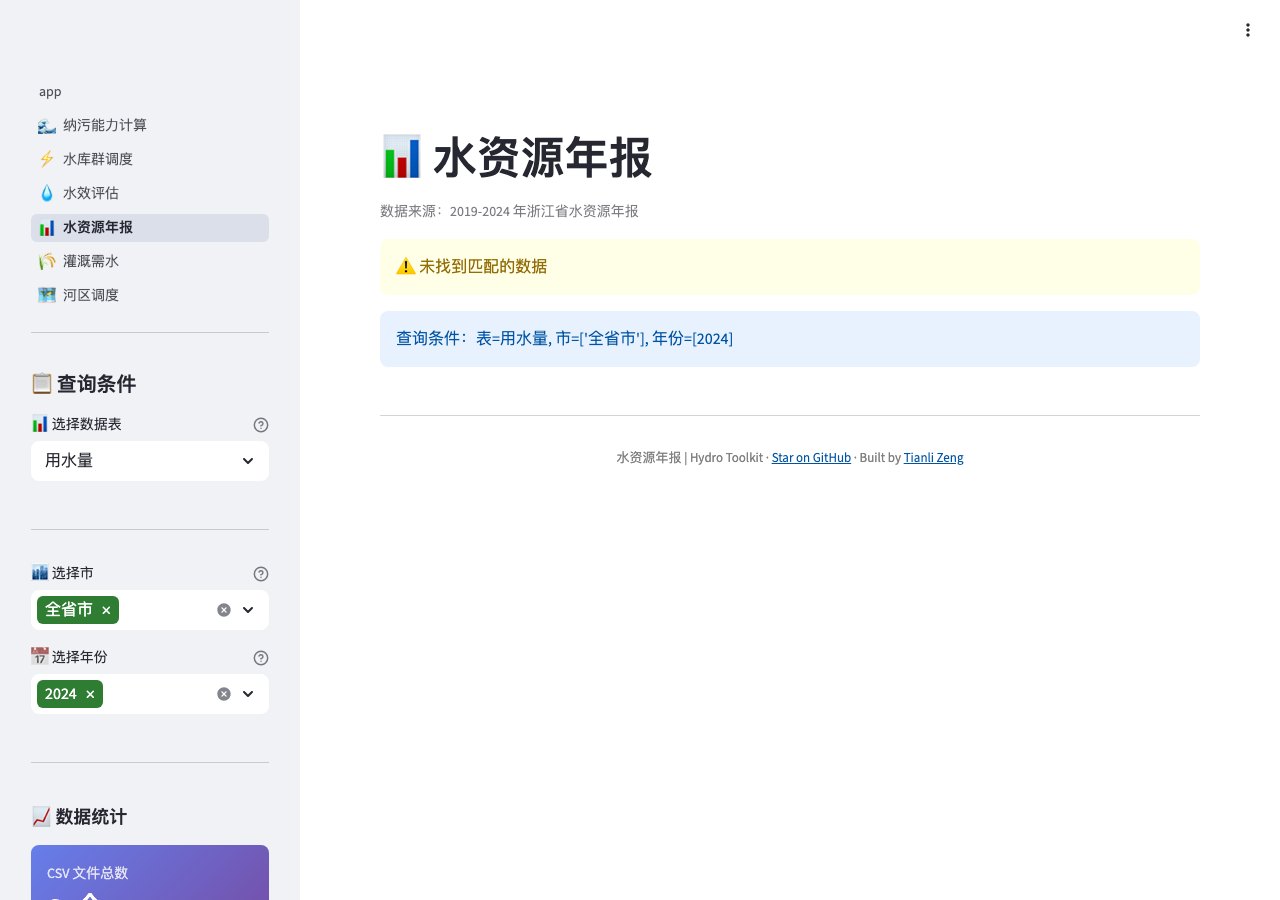
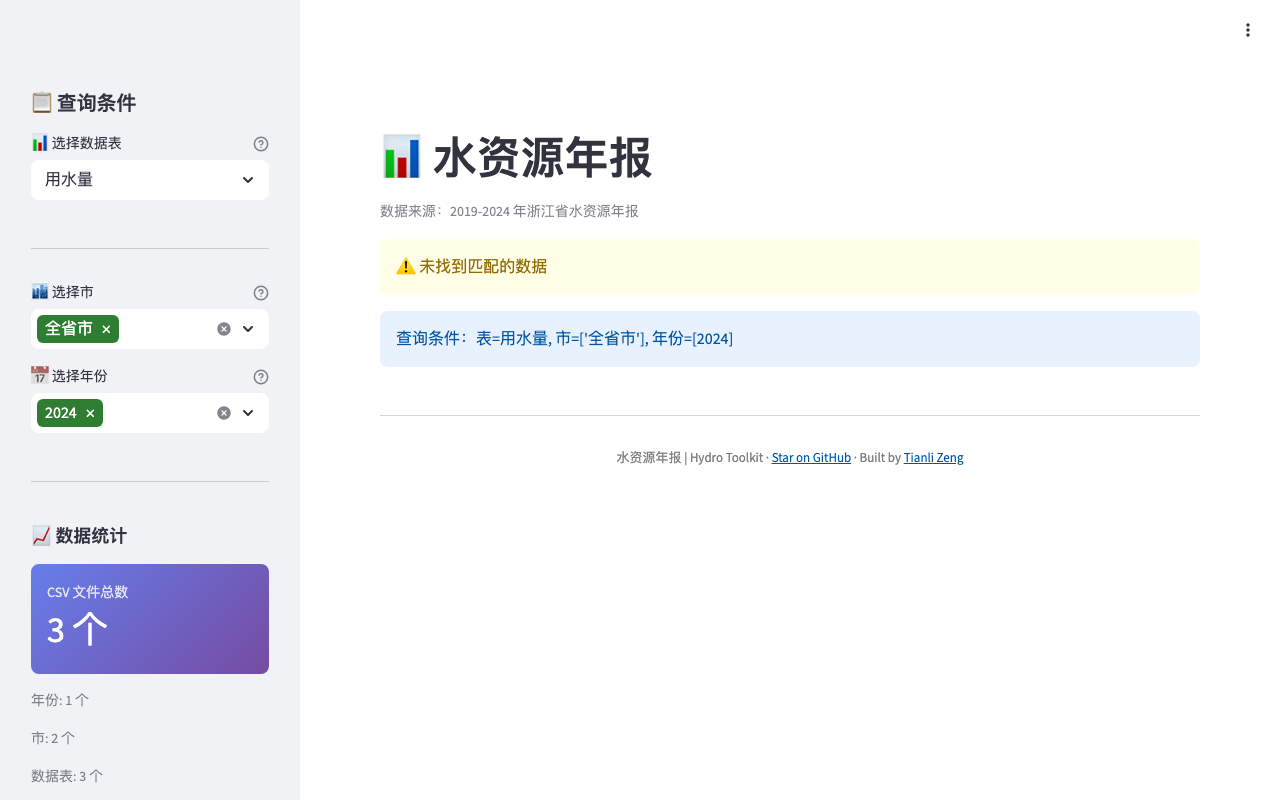
docs: restore demo links, screenshots, feature table + add plugin architecture
- Restore "Try it now" section with hydro.tianlizeng.cloud
- Restore tool feature table with input/output + standalone demo links
- Restore screenshots section (homepage + 2x3 tool grid)
- Restore tech stack and key algorithms sections
- Add plugin architecture section with repo + standalone demo links
- Update screenshots with fresh captures from deployed VPS

diff --git a/README_CN.md b/README_CN.md
@@ -1,20 +1,53 @@
-# 🌊 水利计算工具集 Hydro Toolkit
+# 🌊 Hydro Toolkit
 
 [English](README.md) | **中文**
 
-[![GitHub stars](https://img.shields.io/github/stars/zengtianli/hydro-toolkit)](https://github.com/zengtianli/hydro-toolkit)
-[![License: MIT](https://img.shields.io/badge/License-MIT-yellow.svg)](LICENSE)
-[![Python 3.9+](https://img.shields.io/badge/Python-3.9+-blue.svg)](https://python.org)
+水利计算工具集 — 水库调度、纳污能力、灌溉需水、水效评估等一站式计算平台。
+
+[![在线演示](https://img.shields.io/badge/%E5%9C%A8%E7%BA%BF%E6%BC%94%E7%A4%BA-hydro.tianlizeng.cloud-brightgreen)](https://hydro.tianlizeng.cloud)
+[![License: MIT](https://img.shields.io/badge/License-MIT-blue.svg)](LICENSE)
+[![Python 3.9+](https://img.shields.io/badge/Python-3.9%2B-blue.svg)](https://python.org)
 [![Streamlit](https://img.shields.io/badge/Streamlit-1.36+-FF4B4B.svg)](https://streamlit.io)
 
-插件式水利计算工具集。粘贴 GitHub URL 即可安装工具，无需修改代码。
+---
 
-![screenshot](docs/screenshots/home.png)
+### 立即体验 — 无需安装
 
-## 架构
+| 全部工具 | 或单独使用每个工具 |
+|:---:|:---:|
+| **https://hydro.tianlizeng.cloud** | 见下方表格链接 |
+
+上传数据 → 选择工具 → 下载结果。所有工具内置示例数据，零门槛试用。
+
+---
+
+## 功能一览
+
+| 工具 | 功能 | 输入 | 输出 | 在线体验 |
+|------|------|------|------|----------|
+| **纳污能力计算** | 河道/水库纳污能力计算，支持支流分段和多方案 | Excel (流量 + 功能区参数) | Excel (逐月纳污能力) | [演示](https://hydro-capacity.tianlizeng.cloud) |
+| **水库群调度** | 梯级水库发电调度优化计算 | Excel (来水 + 水库参数) | Excel (逐日调度过程) | [演示](https://hydro-reservoir.tianlizeng.cloud) |
+| **水效评估** | 工业集聚区水效评估 (AHP+CRITIC+TOPSIS) | Excel (三循环指标数据) | Excel (评分 + 企业排名) | [演示](https://hydro-efficiency.tianlizeng.cloud) |
+| **水资源年报** | 浙江省水资源年报数据查询 (2019-2024) | 内置 CSV 数据集 | Excel/CSV 导出 | [演示](https://hydro-annual.tianlizeng.cloud) |
+| **灌溉需水** | 水稻+旱地灌溉需水量水平衡模拟 | TXT (降雨 + 蒸发) | Excel (逐日需水量) | [演示](https://hydro-irrigation.tianlizeng.cloud) |
+| **河区调度** | 19河区逐日水资源供需平衡调度 | TXT (来水 + 需水) | TXT/ZIP (调度结果) | [演示](https://hydro-district.tianlizeng.cloud) |
+
+## 截图
+
+### 首页
+![首页](docs/screenshots/homepage.png)
+
+### 工具界面
+| | |
+|---|---|
+| ![纳污能力计算](docs/screenshots/capacity.png) | ![水库群调度](docs/screenshots/reservoir.png) |
+| ![水效评估](docs/screenshots/efficiency.png) | ![水资源年报](docs/screenshots/annual.png) |
+| ![灌溉需水](docs/screenshots/irrigation.png) | ![河区调度](docs/screenshots/district.png) |
+
+## 插件架构
 
 ```
-hydro-toolkit (Host)          插件 (git clone)
+hydro-toolkit（宿主壳）        插件（git clone 安装）
 ┌─────────────────┐     ┌──────────────────────┐
 │  app.py         │     │  hydro-capacity/     │
 │  core/          │────▶│  hydro-reservoir/    │
@@ -25,18 +58,16 @@ hydro-toolkit (Host)          插件 (git clone)
                         └──────────────────────┘
 ```
 
-Toolkit 是一个**纯 Host 壳**，零业务代码。每个工具是独立插件，通过 `plugin.yaml` 在运行时被发现。
+Toolkit 是**纯宿主壳**，不含任何业务逻辑。每个工具都是独立插件，通过 `plugin.yaml` 在运行时发现。既可以在 Toolkit 中使用，也可以独立运行。
 
-## 已有插件
-
-| # | 插件 | 说明 | 仓库 |
-|---|------|------|------|
-| 🌊 | 纳污能力计算 | 河道/水库纳污能力计算 | [hydro-capacity](https://github.com/zengtianli/hydro-capacity) |
-| ⚡ | 水库群调度 | 梯级水电调度优化 | [hydro-reservoir](https://github.com/zengtianli/hydro-reservoir) |
-| 💧 | 水效评估 | AHP+CRITIC+TOPSIS 综合评价 | [hydro-efficiency](https://github.com/zengtianli/hydro-efficiency) |
-| 📊 | 水资源年报 | 浙江省数据查询（2019–2024） | [hydro-annual](https://github.com/zengtianli/hydro-annual) |
-| 🌾 | 灌溉需水 | 水稻+旱地水量平衡模型 | [hydro-irrigation](https://github.com/zengtianli/hydro-irrigation) |
-| 🗺 | 河区调度 | 19河区逐日供需平衡 | [hydro-district](https://github.com/zengtianli/hydro-district) |
+| 插件 | 功能 | 仓库 | 独立演示 |
+|------|------|------|----------|
+| 🌊 纳污能力计算 | 河道/水库纳污能力计算 | [hydro-capacity](https://github.com/zengtianli/hydro-capacity) | [hydro-capacity.tianlizeng.cloud](https://hydro-capacity.tianlizeng.cloud) |
+| ⚡ 水库群调度 | 梯级水库水电调度优化 | [hydro-reservoir](https://github.com/zengtianli/hydro-reservoir) | [hydro-reservoir.tianlizeng.cloud](https://hydro-reservoir.tianlizeng.cloud) |
+| 💧 水效评估 | AHP+CRITIC+TOPSIS 评价 | [hydro-efficiency](https://github.com/zengtianli/hydro-efficiency) | [hydro-efficiency.tianlizeng.cloud](https://hydro-efficiency.tianlizeng.cloud) |
+| 📊 水资源年报 | 浙江省数据查询 (2019–2024) | [hydro-annual](https://github.com/zengtianli/hydro-annual) | [hydro-annual.tianlizeng.cloud](https://hydro-annual.tianlizeng.cloud) |
+| 🌾 灌溉需水 | 水稻+旱地水平衡模型 | [hydro-irrigation](https://github.com/zengtianli/hydro-irrigation) | [hydro-irrigation.tianlizeng.cloud](https://hydro-irrigation.tianlizeng.cloud) |
+| 🗺 河区调度 | 19河区逐日供需平衡 | [hydro-district](https://github.com/zengtianli/hydro-district) | [hydro-district.tianlizeng.cloud](https://hydro-district.tianlizeng.cloud) |
 
 ## 快速开始
 
@@ -47,55 +78,41 @@ pip install -r requirements.txt
 streamlit run app.py
 ```
 
-然后在侧边栏点击 **插件管理**，粘贴插件仓库 URL 即可安装。
+然后在侧边栏打开 **插件管理**，粘贴插件仓库 URL 即可安装。
 
 ## 安装插件
 
 1. 在浏览器中打开 Toolkit
-2. 点击侧边栏的 **插件管理**（⚙）
+2. 点击侧边栏的 **插件管理** (⚙)
 3. 粘贴 GitHub URL（如 `https://github.com/zengtianli/hydro-capacity`）
 4. 点击 **安装** — 插件立即出现在侧边栏
 
-## 开发自己的插件
+## 技术栈
 
-创建以下结构的仓库：
+- **Python 3.9+** — 计算引擎
+- **Streamlit 1.36+** — Web 界面（插件式导航）
+- **pandas / numpy / scipy** — 数据处理与数值计算
+- **plotly** — 交互式图表
+- **openpyxl** — Excel 读写
 
-```
-hydro-my-tool/
-├── plugin.yaml          # 必须 — 元数据
-├── app.py               # 必须 — Streamlit 入口
-├── src/my_tool/         # 计算逻辑
-├── src/common/st_utils.py  # 共享 UI 工具
-├── requirements.txt
-└── README.md
-```
+## 核心算法
 
-**plugin.yaml**:
-```yaml
-name: my_tool
-title: 我的工具
-icon: "🔧"
-order: 70
-description: 一句话描述
-version: 1.0.0
-```
+| 工具 | 方法 |
+|------|------|
+| 纳污能力计算 | 一维稳态水质模型 + 支流混合: `W = 31.536 × b × (Cs - C0×e^(-KL/u)) × (QKL/u) / (1 - e^(-KL/u))` |
+| 水库群调度 | 梯级水库联合调度 + 水位-库容插值 (scipy) |
+| 水效评估 | AHP 主观赋权 + CRITIC 客观赋权，通过 α 滑块组合，TOPSIS 排名 |
+| 灌溉需水 | 基于 Penman-Monteith ET₀ 的水稻/旱地水平衡逐日模拟 |
+| 河区调度 | 19 河区逐日水平衡 + 动态平衡河区 + 分水枢纽递归分配 |
 
-> **重要**: 不要包含 `src/__init__.py` — namespace package 要求必须缺失。
+## 开发自定义插件
 
-详见 [ARCHITECTURE.md](ARCHITECTURE.md)。
+详见 [ARCHITECTURE.md](ARCHITECTURE.md)，包含完整的插件规范、命名空间包规则和开发步骤。
 
-## 部署（VPS）
+## 贡献
 
-```bash
-git clone https://github.com/zengtianli/hydro-toolkit.git
-cd hydro-toolkit
-pip install -r requirements.txt
-# 安装插件
-cd plugins && git clone https://github.com/zengtianli/hydro-capacity.git && cd ..
-# 启动
-nohup streamlit run app.py --server.port 8510 --server.headless true &
-```
+欢迎提 Issue 和 PR。请先开 Issue 讨论变更内容。
 
 ## 许可证
 
-MIT
+[MIT](LICENSE)

diff --git a/README.md b/README.md
@@ -2,16 +2,49 @@
 
 **English** | [中文](README_CN.md)
 
-[![GitHub stars](https://img.shields.io/github/stars/zengtianli/hydro-toolkit)](https://github.com/zengtianli/hydro-toolkit)
-[![License: MIT](https://img.shields.io/badge/License-MIT-yellow.svg)](LICENSE)
-[![Python 3.9+](https://img.shields.io/badge/Python-3.9+-blue.svg)](https://python.org)
+Water resource calculation toolkit — reservoir scheduling, pollution capacity, irrigation demand, water efficiency assessment, and more.
+
+[![Live Demo](https://img.shields.io/badge/Live%20Demo-hydro.tianlizeng.cloud-brightgreen)](https://hydro.tianlizeng.cloud)
+[![License: MIT](https://img.shields.io/badge/License-MIT-blue.svg)](LICENSE)
+[![Python 3.9+](https://img.shields.io/badge/Python-3.9%2B-blue.svg)](https://python.org)
 [![Streamlit](https://img.shields.io/badge/Streamlit-1.36+-FF4B4B.svg)](https://streamlit.io)
 
-Plugin-based water resource calculation toolkit. Install tools by pasting a GitHub URL — zero code changes required.
+---
 
-![screenshot](docs/screenshots/home.png)
+### Try it now — no install needed
 
-## Architecture
+| All-in-one | Or try each tool standalone |
+|:---:|:---:|
+| **https://hydro.tianlizeng.cloud** | See links in the table below |
+
+Upload your data, pick a tool, download the result. Zero setup. All tools include sample data for instant demo.
+
+---
+
+## What can Hydro Toolkit do?
+
+| Tool | What it does | Input | Output | Try it |
+|------|-------------|-------|--------|--------|
+| **Pollution Capacity** | River/reservoir pollution capacity with tributary segmentation | Excel (flow + zone params) | Excel (monthly capacity) | [Demo](https://hydro-capacity.tianlizeng.cloud) |
+| **Reservoir Scheduling** | Multi-reservoir cascaded hydropower dispatch optimization | Excel (inflow + reservoir params) | Excel (daily schedule) | [Demo](https://hydro-reservoir.tianlizeng.cloud) |
+| **Water Efficiency** | AHP + CRITIC + TOPSIS assessment for industrial parks | Excel (3-cycle indicators) | Excel (scores + ranking) | [Demo](https://hydro-efficiency.tianlizeng.cloud) |
+| **Water Annual Report** | Query Zhejiang province water resource annual data (2019-2024) | Built-in CSV dataset | Excel/CSV export | [Demo](https://hydro-annual.tianlizeng.cloud) |
+| **Irrigation Demand** | Paddy + dryland irrigation water balance simulation | TXT (rainfall + evaporation) | Excel (daily demand) | [Demo](https://hydro-irrigation.tianlizeng.cloud) |
+| **District Scheduling** | Regional water allocation for 19 districts with sluice cascade | TXT (inflow + demand) | TXT/ZIP (balance results) | [Demo](https://hydro-district.tianlizeng.cloud) |
+
+## Screenshots
+
+### Homepage
+![Homepage](docs/screenshots/homepage.png)
+
+### Tools
+| | |
+|---|---|
+| ![Pollution Capacity](docs/screenshots/capacity.png) | ![Reservoir Scheduling](docs/screenshots/reservoir.png) |
+| ![Water Efficiency](docs/screenshots/efficiency.png) | ![Water Annual Report](docs/screenshots/annual.png) |
+| ![Irrigation Demand](docs/screenshots/irrigation.png) | ![District Scheduling](docs/screenshots/district.png) |
+
+## Plugin Architecture
 
 ```
 hydro-toolkit (Host)          Plugins (git clone)
@@ -25,18 +58,16 @@ hydro-toolkit (Host)          Plugins (git clone)
                         └──────────────────────┘
 ```
 
-The Toolkit is a **host shell** with zero business logic. Each tool is an independent plugin discovered at runtime via `plugin.yaml`.
+The Toolkit is a **host shell** with zero business logic. Each tool is an independent plugin discovered at runtime via `plugin.yaml`. You can use them in the Toolkit or run each one standalone.
 
-## Available Plugins
-
-| # | Plugin | Description | Repo |
-|---|--------|-------------|------|
-| 🌊 | Pollution Capacity | River/reservoir pollution capacity calculator | [hydro-capacity](https://github.com/zengtianli/hydro-capacity) |
-| ⚡ | Reservoir Scheduling | Cascade hydropower scheduling optimizer | [hydro-reservoir](https://github.com/zengtianli/hydro-reservoir) |
-| 💧 | Water Efficiency | AHP+CRITIC+TOPSIS assessment | [hydro-efficiency](https://github.com/zengtianli/hydro-efficiency) |
-| 📊 | Water Annual Report | Zhejiang Province data query (2019–2024) | [hydro-annual](https://github.com/zengtianli/hydro-annual) |
-| 🌾 | Irrigation Demand | Paddy + dryland water balance model | [hydro-irrigation](https://github.com/zengtianli/hydro-irrigation) |
-| 🗺 | District Scheduling | 19-district daily supply-demand balance | [hydro-district](https://github.com/zengtianli/hydro-district) |
+| Plugin | Description | Repo | Standalone Demo |
+|--------|-------------|------|-----------------|
+| 🌊 Pollution Capacity | River/reservoir pollution capacity calculator | [hydro-capacity](https://github.com/zengtianli/hydro-capacity) | [hydro-capacity.tianlizeng.cloud](https://hydro-capacity.tianlizeng.cloud) |
+| ⚡ Reservoir Scheduling | Cascade hydropower scheduling optimizer | [hydro-reservoir](https://github.com/zengtianli/hydro-reservoir) | [hydro-reservoir.tianlizeng.cloud](https://hydro-reservoir.tianlizeng.cloud) |
+| 💧 Water Efficiency | AHP+CRITIC+TOPSIS assessment | [hydro-efficiency](https://github.com/zengtianli/hydro-efficiency) | [hydro-efficiency.tianlizeng.cloud](https://hydro-efficiency.tianlizeng.cloud) |
+| 📊 Water Annual Report | Zhejiang Province data query (2019–2024) | [hydro-annual](https://github.com/zengtianli/hydro-annual) | [hydro-annual.tianlizeng.cloud](https://hydro-annual.tianlizeng.cloud) |
+| 🌾 Irrigation Demand | Paddy + dryland water balance model | [hydro-irrigation](https://github.com/zengtianli/hydro-irrigation) | [hydro-irrigation.tianlizeng.cloud](https://hydro-irrigation.tianlizeng.cloud) |
+| 🗺 District Scheduling | 19-district daily supply-demand balance | [hydro-district](https://github.com/zengtianli/hydro-district) | [hydro-district.tianlizeng.cloud](https://hydro-district.tianlizeng.cloud) |
 
 ## Quick Start
 
@@ -56,46 +87,32 @@ Then go to **Plugin Manager** in the sidebar and paste any plugin repo URL to in
 3. Paste a GitHub URL (e.g. `https://github.com/zengtianli/hydro-capacity`)
 4. Click **Install** — the plugin appears in the sidebar immediately
 
+## Tech stack
+
+- **Python 3.9+** — calculation engine
+- **Streamlit 1.36+** — web interface (plugin-based navigation)
+- **pandas / numpy / scipy** — data processing & numerical computation
+- **plotly** — interactive charts
+- **openpyxl** — Excel I/O
+
+## Key algorithms
+
+| Tool | Method |
+|------|--------|
+| Pollution Capacity | One-dimensional steady-state model with tributary mixing: `W = 31.536 × b × (Cs - C0×e^(-KL/u)) × (QKL/u) / (1 - e^(-KL/u))` |
+| Reservoir Scheduling | Cascaded hydropower dispatch with water-level/storage interpolation (scipy) |
+| Water Efficiency | AHP subjective + CRITIC objective weighting, combined via α slider, TOPSIS ranking |
+| Irrigation Demand | Penman-Monteith ET₀ based paddy/dryland water balance with daily time step |
+| District Scheduling | Daily water balance across 19 districts with dynamic equilibrium zones and sluice cascade |
+
 ## Develop Your Own Plugin
 
-Create a repo with this structure:
+See [ARCHITECTURE.md](ARCHITECTURE.md) for the full plugin specification, namespace package rules, and step-by-step guide.
 
-```
-hydro-my-tool/
-├── plugin.yaml          # Required — metadata
-├── app.py               # Required — Streamlit entry point
-├── src/my_tool/         # Business logic
-├── src/common/st_utils.py  # Shared UI utilities
-├── requirements.txt
-└── README.md
-```
+## Contributing
 
-**plugin.yaml**:
-```yaml
-name: my_tool
-title: My Tool Name
-icon: "🔧"
-order: 70
-description: One-line description
-version: 1.0.0
-```
-
-> **Important**: Do NOT include `src/__init__.py` — it must be absent for namespace package resolution.
-
-See [ARCHITECTURE.md](ARCHITECTURE.md) for full details.
-
-## Deploy (VPS)
-
-```bash
-git clone https://github.com/zengtianli/hydro-toolkit.git
-cd hydro-toolkit
-pip install -r requirements.txt
-# Install plugins
-cd plugins && git clone https://github.com/zengtianli/hydro-capacity.git && cd ..
-# Start
-nohup streamlit run app.py --server.port 8510 --server.headless true &
-```
+Issues and PRs are welcome. Please open an issue first to discuss changes.
 
 ## License
 
-MIT
+[MIT](LICENSE)
